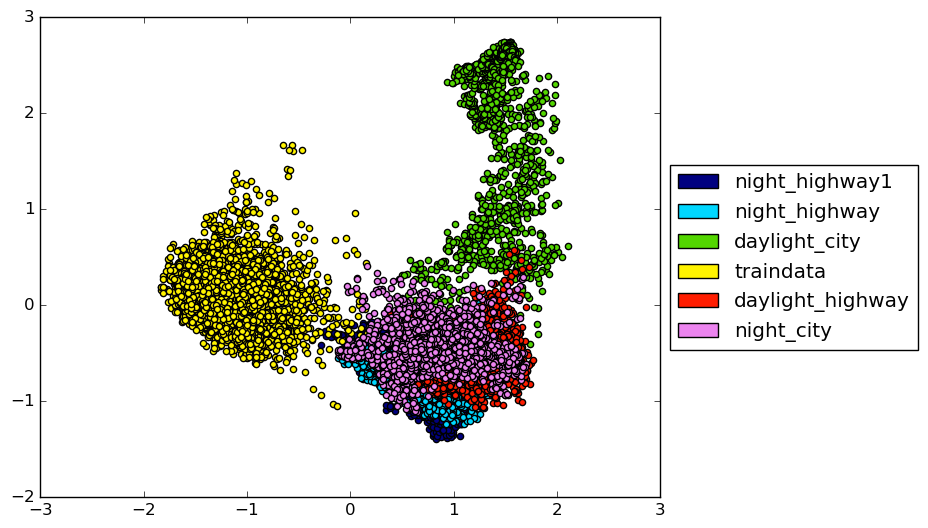
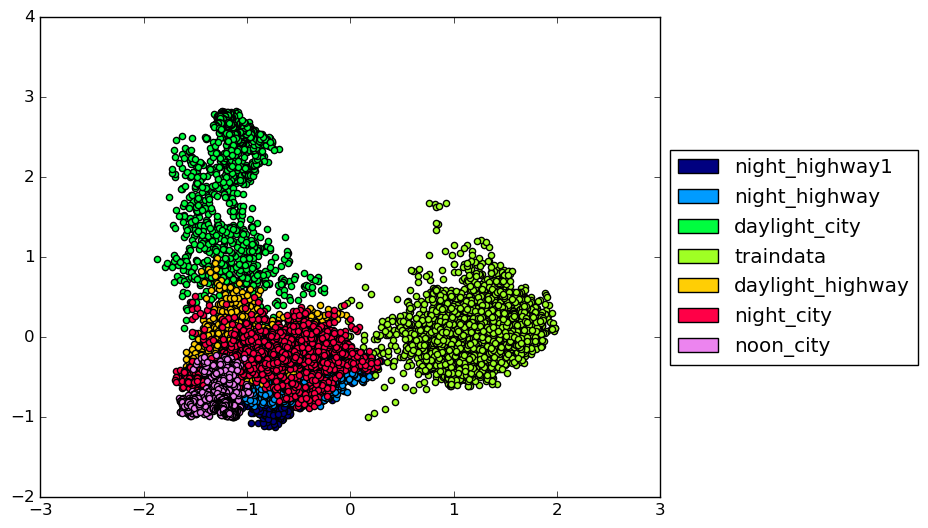
.

Changed region(s): [[0.1562, 0.0606, 0.625, 0.8485], [0.7188, 0.2727, 1.0, 0.697], [0.375, 0.3939, 0.4062, 0.4242]]

diff --git a/analyer.py b/analyer.py
@@ -24,6 +24,7 @@ for fname in os.listdir(DIR):
 all_data = np.asarray(all_data, np.float32)
 model = PCA(n_components = 2)
 model.fit(all_data) 
+plt.title(sys.argv[2])
 colormap = plt.cm.gist_ncar 
 colorst = [colormap(i) for i in np.linspace(0, 0.9, len(data_dict))]
 
@@ -36,4 +37,4 @@ recs = []
 for i in range(len(data_dict)):
         recs.append(mpatches.Rectangle((0,0), 1, 1, fc = colorst[i]))
 lgd = plt.legend(recs, classes, loc = 'center left', bbox_to_anchor = (1, 0.5))
-plt.savefig('compare.png', bbox_extra_artists = (lgd,), bbox_inches = 'tight')
+plt.savefig(sys.argv[2] + '.png', bbox_extra_artists = (lgd,), bbox_inches = 'tight')
